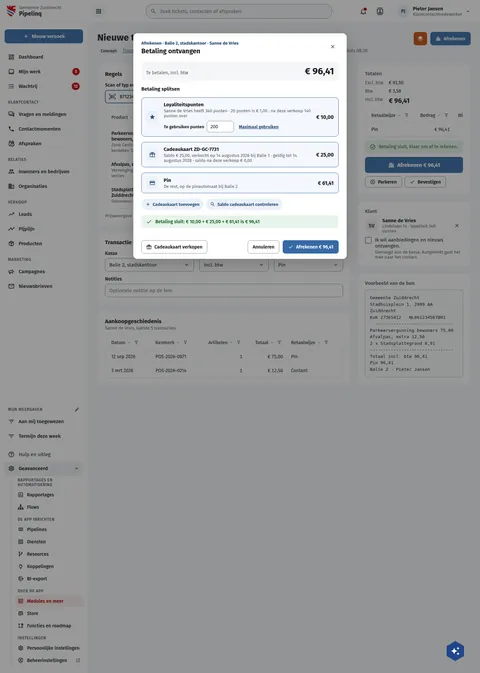
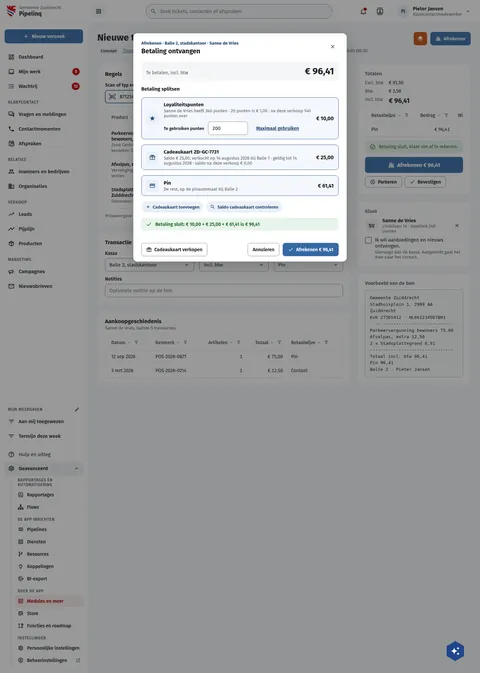
fix(screens): PqKassaAfrekenen draws the loyalty points as controls
Live offers loyalty points at checkout: a "Te gebruiken punten" field and
a "Maximaal gebruiken" button in the Loyaliteitspunten row. The board drew
the amount as a 32px text box beside a 13px link, so the measure found
both as extra on live. Users keep the feature, so the board now draws a
labelled 40px number field and a 34px button. Built with
build.py --only PqKassaAfrekenen; screens.json unchanged.

Assisted-by: ClaudeCode:claude-opus-5-5

Changed region(s): [[0.2812, 0.156, 0.7188, 0.4056]]

diff --git a/preview/screens/boards/PqKassaAfrekenen.html b/preview/screens/boards/PqKassaAfrekenen.html
@@ -245,7 +245,7 @@ a{color:var(--sc-primary, #3669a5)}a:hover{color:var(--sc-primary-deep, #234a78)
   <div style="position: absolute; inset: 0; background: rgba(27,28,29,0.45); display: flex; justify-content: center; align-items: flex-start; padding-top: 100px; z-index: 5">
     <div role="dialog" aria-modal="true" aria-labelledby="pq-dlg" style="width: 640px; max-width: calc(100% - 32px); background: #ffffff; border-radius: 12px; box-shadow: 0 12px 40px rgba(27,28,29,0.25); display: flex; flex-direction: column">
       <div style="display: flex; align-items: flex-start; gap: 12px; padding: 22px 24px 8px"><div style="flex: 1 1 auto; display: flex; flex-direction: column; gap: 4px"><span style="font-size: 13px; font-weight: 700; color: var(--sc-primary-deep, #234a78)">Afrekenen · Balie 2, stadskantoor · Sanne de Vries</span><h2 id="pq-dlg" style="margin: 0; font-size: 20px; font-weight: 700">Betaling ontvangen</h2></div><button type="button" aria-label="Sluiten" style="width: 36px; height: 36px; flex: none; border: 0; border-radius: 18px; background: transparent; color: var(--sc-work-text, #3d4047); display: flex; align-items: center; justify-content: center"><svg width="18" height="18" viewbox="0 0 24 24" fill="currentColor" aria-hidden="true"><path d="M19,6.41L17.59,5L12,10.59L6.41,5L5,6.41L10.59,12L5,17.59L6.41,19L12,13.41L17.59,19L19,17.59L13.41,12L19,6.41Z"></path></svg></button></div>
-      <div style="padding: 12px 24px 20px; display: flex; flex-direction: column; gap: 16px"><div style="display: flex; flex-wrap: wrap; justify-content: space-between; align-items: baseline; gap: 8px; padding: 12px 14px; border-radius: 10px; background: var(--sc-work-ground, #f5f6f8)"><span style="font-size: 14px; color: var(--sc-work-muted, #5e6168)">Te betalen, incl. btw</span><strong style="font-size: 28px">€ 96,41</strong></div><h3 style="margin: 0; font-size: 15px; font-weight: 700">Betaling splitsen</h3><div style="display: flex; flex-wrap: wrap; align-items: center; gap: 10px 16px; padding: 12px 14px; border: 1px solid var(--sc-work-line, #e4e6ea); border-radius: 10px; border-color: var(--sc-primary, #3669a5); background: #f3f7fc"><span style="width: 36px; height: 36px; flex: none; border-radius: 8px; background: var(--sc-primary-light, #eaf0f7); color: var(--sc-primary-deep, #234a78); display: flex; align-items: center; justify-content: center"><svg width="18" height="18" viewbox="0 0 24 24" fill="currentColor" aria-hidden="true"><path d="M12,17.27L18.18,21L16.54,13.97L22,9.24L14.81,8.62L12,2L9.19,8.62L2,9.24L7.45,13.97L5.82,21L12,17.27Z"></path></svg></span><span style="flex: 1 1 220px; display: flex; flex-direction: column; gap: 2px"><strong style="font-size: 15px">Loyaliteitspunten</strong><span style="font-size: 13px; color: var(--sc-work-muted, #5e6168)">Sanne de Vries heeft 340 punten · 20 punten is € 1,00 · na deze verkoop 140 punten over</span><span style="display: flex; align-items: center; gap: 8px; margin-top: 6px"><span style="font-size: 13px; font-weight: 600">Te gebruiken punten</span><span style="display: inline-flex; align-items: center; height: 32px; padding: 0 10px; border: 1px solid var(--sc-work-field, #828a95); border-radius: 8px; background: #ffffff; font-size: 14px; min-width: 60px">200</span><button type="button" style="border: 0; background: transparent; color: var(--sc-primary-deep, #234a78); font: 600 13px var(--sc-font, 'Fira Sans'), sans-serif; text-decoration: underline">Maximaal gebruiken</button></span></span><strong style="font-size: 16px; white-space: nowrap">€ 10,00</strong></div><div style="display: flex; flex-wrap: wrap; align-items: center; gap: 10px 16px; padding: 12px 14px; border: 1px solid var(--sc-work-line, #e4e6ea); border-radius: 10px; border-color: var(--sc-primary, #3669a5); background: #f3f7fc"><span style="width: 36px; height: 36px; flex: none; border-radius: 8px; background: var(--sc-primary-light, #eaf0f7); color: var(--sc-primary-deep, #234a78); display: flex; align-items: center; justify-content: center"><svg width="18" height="18" viewbox="0 0 24 24" fill="currentColor" aria-hidden="true"><path d="M22,12V20A2,2 0 0,1 20,22H4A2,2 0 0,1 2,20V12A1,1 0 0,1 1,11V8A2,2 0 0,1 3,6H6.17C6.06,5.69 6,5.35 6,5A3,3 0 0,1 9,2C10,2 10.88,2.5 11.43,3.24V3.23L12,4L12.57,3.23V3.24C13.12,2.5 14,2 15,2A3,3 0 0,1 18,5C18,5.35 17.94,5.69 17.83,6H21A2,2 0 0,1 23,8V11A1,1 0 0,1 22,12M4,20H11V12H4V20M20,20V12H13V20H20M9,4A1,1 0 0,0 8,5A1,1 0 0,0 9,6A1,1 0 0,0 10,5A1,1 0 0,0 9,4M15,4A1,1 0 0,0 14,5A1,1 0 0,0 15,6A1,1 0 0,0 16,5A1,1 0 0,0 15,4M3,8V10H11V8H3M13,8V10H21V8H13Z"></path></svg></span><span style="flex: 1 1 220px; display: flex; flex-direction: column; gap: 2px"><strong style="font-size: 15px">Cadeaukaart ZD-GC-7731</strong><span style="font-size: 13px; color: var(--sc-work-muted, #5e6168)">Saldo € 25,00, verkocht op 14 augustus 2026 bij Balie 1 · geldig tot 14 augustus 2028 · saldo na deze verkoop € 0,00</span></span><strong style="font-size: 16px; white-space: nowrap">€ 25,00</strong></div><div style="display: flex; flex-wrap: wrap; align-items: center; gap: 10px 16px; padding: 12px 14px; border: 1px solid var(--sc-work-line, #e4e6ea); border-radius: 10px; border-color: var(--sc-primary, #3669a5); background: #f3f7fc"><span style="width: 36px; height: 36px; flex: none; border-radius: 8px; background: var(--sc-primary-light, #eaf0f7); color: var(--sc-primary-deep, #234a78); display: flex; align-items: center; justify-content: center"><svg width="18" height="18" viewbox="0 0 24 24" fill="currentColor" aria-hidden="true"><path d="M20,8H4V6H20M20,18H4V12H20M20,4H4C2.89,4 2,4.89 2,6V18A2,2 0 0,0 4,20H20A2,2 0 0,0 22,18V6C22,4.89 21.1,4 20,4Z"></path></svg></span><span style="flex: 1 1 220px; display: flex; flex-direction: column; gap: 2px"><strong style="font-size: 15px">Pin</strong><span style="font-size: 13px; color: var(--sc-work-muted, #5e6168)">De rest, op de pinautomaat bij Balie 2</span></span><strong style="font-size: 16px; white-space: nowrap">€ 61,41</strong></div><div style="display: flex; flex-wrap: wrap; gap: 8px"><button type="button" style="display: inline-flex; align-items: center; gap: 6px; height: 34px; padding: 0 12px; border: 0; border-radius: 17px; background: var(--sc-primary-light, #eaf0f7); color: var(--sc-primary-deep, #234a78); font: 600 13px var(--sc-font, 'Fira Sans'), sans-serif; white-space: nowrap"><svg width="16" height="16" viewbox="0 0 24 24" fill="currentColor" aria-hidden="true"><path d="M19,13H13V19H11V13H5V11H11V5H13V11H19V13Z"></path></svg>Cadeaukaart toevoegen</button><button type="button" style="display: inline-flex; align-items: center; gap: 6px; height: 34px; padding: 0 12px; border: 0; border-radius: 17px; background: var(--sc-primary-light, #eaf0f7); color: var(--sc-primary-deep, #234a78); font: 600 13px var(--sc-font, 'Fira Sans'), sans-serif; white-space: nowrap"><svg width="16" height="16" viewbox="0 0 24 24" fill="currentColor" aria-hidden="true"><path d="M9.5,3A6.5,6.5 0 0,1 16,9.5C16,11.11 15.41,12.59 14.44,13.73L14.71,14H15.5L20.5,19L19,20.5L14,15.5V14.71L13.73,14.44C12.59,15.41 11.11,16 9.5,16A6.5,6.5 0 0,1 3,9.5A6.5,6.5 0 0,1 9.5,3M9.5,5C7,5 5,7 5,9.5C5,12 7,14 9.5,14C12,14 14,12 14,9.5C14,7 12,5 9.5,5Z"></path></svg>Saldo cadeaukaart controleren</button></div><div role="status" style="display: flex; align-items: center; gap: 10px; padding: 10px 14px; border-radius: 8px; background: #e7f3ea; color: #1e6b2a; font-size: 14px; font-weight: 600"><svg width="18" height="18" viewbox="0 0 24 24" fill="currentColor" aria-hidden="true"><path d="M21,7L9,19L3.5,13.5L4.91,12.09L9,16.17L19.59,5.59L21,7Z"></path></svg>Betaling sluit: € 10,00 + € 25,00 + € 61,41 is € 96,41</div></div>
+      <div style="padding: 12px 24px 20px; display: flex; flex-direction: column; gap: 16px"><div style="display: flex; flex-wrap: wrap; justify-content: space-between; align-items: baseline; gap: 8px; padding: 12px 14px; border-radius: 10px; background: var(--sc-work-ground, #f5f6f8)"><span style="font-size: 14px; color: var(--sc-work-muted, #5e6168)">Te betalen, incl. btw</span><strong style="font-size: 28px">€ 96,41</strong></div><h3 style="margin: 0; font-size: 15px; font-weight: 700">Betaling splitsen</h3><div style="display: flex; flex-wrap: wrap; align-items: center; gap: 10px 16px; padding: 12px 14px; border: 1px solid var(--sc-work-line, #e4e6ea); border-radius: 10px; border-color: var(--sc-primary, #3669a5); background: #f3f7fc"><span style="width: 36px; height: 36px; flex: none; border-radius: 8px; background: var(--sc-primary-light, #eaf0f7); color: var(--sc-primary-deep, #234a78); display: flex; align-items: center; justify-content: center"><svg width="18" height="18" viewbox="0 0 24 24" fill="currentColor" aria-hidden="true"><path d="M12,17.27L18.18,21L16.54,13.97L22,9.24L14.81,8.62L12,2L9.19,8.62L2,9.24L7.45,13.97L5.82,21L12,17.27Z"></path></svg></span><span style="flex: 1 1 220px; display: flex; flex-direction: column; gap: 2px"><strong style="font-size: 15px">Loyaliteitspunten</strong><span style="font-size: 13px; color: var(--sc-work-muted, #5e6168)">Sanne de Vries heeft 340 punten · 20 punten is € 1,00 · na deze verkoop 140 punten over</span><span style="display: flex; flex-wrap: wrap; align-items: center; gap: 8px 12px; margin-top: 8px"><label for="pq-pay-points" style="font-size: 13px; font-weight: 600">Te gebruiken punten</label><input id="pq-pay-points" type="number" inputmode="numeric" min="0" max="340" step="20" value="200" style="width: 120px; height: 40px; box-sizing: border-box; padding: 0 12px; border: 1px solid var(--sc-work-field, #828a95); border-radius: 8px; background: #ffffff; font: 400 15px var(--sc-font, 'Fira Sans'), sans-serif; color: var(--sc-work-ink, #1b1c1d)"><button type="button" style="height: 34px; padding: 0 12px; border: 0; border-radius: 8px; background: transparent; color: var(--sc-primary-deep, #234a78); font: 600 14px var(--sc-font, 'Fira Sans'), sans-serif; text-decoration: underline">Maximaal gebruiken</button></span></span><strong style="font-size: 16px; white-space: nowrap">€ 10,00</strong></div><div style="display: flex; flex-wrap: wrap; align-items: center; gap: 10px 16px; padding: 12px 14px; border: 1px solid var(--sc-work-line, #e4e6ea); border-radius: 10px; border-color: var(--sc-primary, #3669a5); background: #f3f7fc"><span style="width: 36px; height: 36px; flex: none; border-radius: 8px; background: var(--sc-primary-light, #eaf0f7); color: var(--sc-primary-deep, #234a78); display: flex; align-items: center; justify-content: center"><svg width="18" height="18" viewbox="0 0 24 24" fill="currentColor" aria-hidden="true"><path d="M22,12V20A2,2 0 0,1 20,22H4A2,2 0 0,1 2,20V12A1,1 0 0,1 1,11V8A2,2 0 0,1 3,6H6.17C6.06,5.69 6,5.35 6,5A3,3 0 0,1 9,2C10,2 10.88,2.5 11.43,3.24V3.23L12,4L12.57,3.23V3.24C13.12,2.5 14,2 15,2A3,3 0 0,1 18,5C18,5.35 17.94,5.69 17.83,6H21A2,2 0 0,1 23,8V11A1,1 0 0,1 22,12M4,20H11V12H4V20M20,20V12H13V20H20M9,4A1,1 0 0,0 8,5A1,1 0 0,0 9,6A1,1 0 0,0 10,5A1,1 0 0,0 9,4M15,4A1,1 0 0,0 14,5A1,1 0 0,0 15,6A1,1 0 0,0 16,5A1,1 0 0,0 15,4M3,8V10H11V8H3M13,8V10H21V8H13Z"></path></svg></span><span style="flex: 1 1 220px; display: flex; flex-direction: column; gap: 2px"><strong style="font-size: 15px">Cadeaukaart ZD-GC-7731</strong><span style="font-size: 13px; color: var(--sc-work-muted, #5e6168)">Saldo € 25,00, verkocht op 14 augustus 2026 bij Balie 1 · geldig tot 14 augustus 2028 · saldo na deze verkoop € 0,00</span></span><strong style="font-size: 16px; white-space: nowrap">€ 25,00</strong></div><div style="display: flex; flex-wrap: wrap; align-items: center; gap: 10px 16px; padding: 12px 14px; border: 1px solid var(--sc-work-line, #e4e6ea); border-radius: 10px; border-color: var(--sc-primary, #3669a5); background: #f3f7fc"><span style="width: 36px; height: 36px; flex: none; border-radius: 8px; background: var(--sc-primary-light, #eaf0f7); color: var(--sc-primary-deep, #234a78); display: flex; align-items: center; justify-content: center"><svg width="18" height="18" viewbox="0 0 24 24" fill="currentColor" aria-hidden="true"><path d="M20,8H4V6H20M20,18H4V12H20M20,4H4C2.89,4 2,4.89 2,6V18A2,2 0 0,0 4,20H20A2,2 0 0,0 22,18V6C22,4.89 21.1,4 20,4Z"></path></svg></span><span style="flex: 1 1 220px; display: flex; flex-direction: column; gap: 2px"><strong style="font-size: 15px">Pin</strong><span style="font-size: 13px; color: var(--sc-work-muted, #5e6168)">De rest, op de pinautomaat bij Balie 2</span></span><strong style="font-size: 16px; white-space: nowrap">€ 61,41</strong></div><div style="display: flex; flex-wrap: wrap; gap: 8px"><button type="button" style="display: inline-flex; align-items: center; gap: 6px; height: 34px; padding: 0 12px; border: 0; border-radius: 17px; background: var(--sc-primary-light, #eaf0f7); color: var(--sc-primary-deep, #234a78); font: 600 13px var(--sc-font, 'Fira Sans'), sans-serif; white-space: nowrap"><svg width="16" height="16" viewbox="0 0 24 24" fill="currentColor" aria-hidden="true"><path d="M19,13H13V19H11V13H5V11H11V5H13V11H19V13Z"></path></svg>Cadeaukaart toevoegen</button><button type="button" style="display: inline-flex; align-items: center; gap: 6px; height: 34px; padding: 0 12px; border: 0; border-radius: 17px; background: var(--sc-primary-light, #eaf0f7); color: var(--sc-primary-deep, #234a78); font: 600 13px var(--sc-font, 'Fira Sans'), sans-serif; white-space: nowrap"><svg width="16" height="16" viewbox="0 0 24 24" fill="currentColor" aria-hidden="true"><path d="M9.5,3A6.5,6.5 0 0,1 16,9.5C16,11.11 15.41,12.59 14.44,13.73L14.71,14H15.5L20.5,19L19,20.5L14,15.5V14.71L13.73,14.44C12.59,15.41 11.11,16 9.5,16A6.5,6.5 0 0,1 3,9.5A6.5,6.5 0 0,1 9.5,3M9.5,5C7,5 5,7 5,9.5C5,12 7,14 9.5,14C12,14 14,12 14,9.5C14,7 12,5 9.5,5Z"></path></svg>Saldo cadeaukaart controleren</button></div><div role="status" style="display: flex; align-items: center; gap: 10px; padding: 10px 14px; border-radius: 8px; background: #e7f3ea; color: #1e6b2a; font-size: 14px; font-weight: 600"><svg width="18" height="18" viewbox="0 0 24 24" fill="currentColor" aria-hidden="true"><path d="M21,7L9,19L3.5,13.5L4.91,12.09L9,16.17L19.59,5.59L21,7Z"></path></svg>Betaling sluit: € 10,00 + € 25,00 + € 61,41 is € 96,41</div></div>
       <div style="display: flex; flex-wrap: wrap; justify-content: flex-end; align-items: center; gap: 10px; padding: 16px 24px; border-top: 1px solid var(--sc-work-soft, #eef0f3)"><button type="button" style="display: inline-flex; align-items: center; gap: 8px; height: 40px; padding: 0 14px; border: 1px solid var(--sc-work-field, #828a95); border-radius: 8px; background: #ffffff; font: 600 14px var(--sc-font, 'Fira Sans'), sans-serif; color: var(--sc-work-ink, #1b1c1d); white-space: nowrap; margin-right: auto"><svg width="16" height="16" viewbox="0 0 24 24" fill="currentColor" aria-hidden="true"><path d="M22,12V20A2,2 0 0,1 20,22H4A2,2 0 0,1 2,20V12A1,1 0 0,1 1,11V8A2,2 0 0,1 3,6H6.17C6.06,5.69 6,5.35 6,5A3,3 0 0,1 9,2C10,2 10.88,2.5 11.43,3.24V3.23L12,4L12.57,3.23V3.24C13.12,2.5 14,2 15,2A3,3 0 0,1 18,5C18,5.35 17.94,5.69 17.83,6H21A2,2 0 0,1 23,8V11A1,1 0 0,1 22,12M4,20H11V12H4V20M20,20V12H13V20H20M9,4A1,1 0 0,0 8,5A1,1 0 0,0 9,6A1,1 0 0,0 10,5A1,1 0 0,0 9,4M15,4A1,1 0 0,0 14,5A1,1 0 0,0 15,6A1,1 0 0,0 16,5A1,1 0 0,0 15,4M3,8V10H11V8H3M13,8V10H21V8H13Z"></path></svg>Cadeaukaart verkopen</button><button type="button" style="display: inline-flex; align-items: center; gap: 8px; height: 40px; padding: 0 14px; border: 1px solid var(--sc-work-field, #828a95); border-radius: 8px; background: #ffffff; font: 600 14px var(--sc-font, 'Fira Sans'), sans-serif; color: var(--sc-work-ink, #1b1c1d); white-space: nowrap">Annuleren</button><button type="button" style="display: inline-flex; align-items: center; gap: 8px; height: 40px; padding: 0 16px; border: 0; border-radius: 8px; background: var(--sc-primary, #3669a5); color: #ffffff; font: 600 14px var(--sc-font, 'Fira Sans'), sans-serif; white-space: nowrap"><svg width="16" height="16" viewbox="0 0 24 24" fill="currentColor" aria-hidden="true"><path d="M21,7L9,19L3.5,13.5L4.91,12.09L9,16.17L19.59,5.59L21,7Z"></path></svg>Afrekenen € 96,41</button></div>
     </div>
   </div>

diff --git a/screens-src/zuiddrecht/PqKassaAfrekenen.dc.html b/screens-src/zuiddrecht/PqKassaAfrekenen.dc.html
@@ -37,7 +37,7 @@ a{color:#3669a5}a:hover{color:#234a78}
   <div style="position: absolute; inset: 0; background: rgba(27,28,29,0.45); display: flex; justify-content: center; align-items: flex-start; padding-top: 100px; z-index: 5">
     <div role="dialog" aria-modal="true" aria-labelledby="pq-dlg" style="width: 640px; max-width: calc(100% - 32px); background: #ffffff; border-radius: 12px; box-shadow: 0 12px 40px rgba(27,28,29,0.25); display: flex; flex-direction: column">
       <div style="display: flex; align-items: flex-start; gap: 12px; padding: 22px 24px 8px"><div style="flex: 1 1 auto; display: flex; flex-direction: column; gap: 4px"><span style="font-size: 13px; font-weight: 700; color: #234a78">Afrekenen · Balie 2, stadskantoor · Sanne de Vries</span><h2 id="pq-dlg" style="margin: 0; font-size: 20px; font-weight: 700">Betaling ontvangen</h2></div><button type="button" aria-label="Sluiten" style="width: 36px; height: 36px; flex: none; border: 0; border-radius: 18px; background: transparent; color: #3d4047; display: flex; align-items: center; justify-content: center"><svg width="18" height="18" viewBox="0 0 24 24" fill="currentColor" aria-hidden="true"><path d="M19,6.41L17.59,5L12,10.59L6.41,5L5,6.41L10.59,12L5,17.59L6.41,19L12,13.41L17.59,19L19,17.59L13.41,12L19,6.41Z"></path></svg></button></div>
-      <div style="padding: 12px 24px 20px; display: flex; flex-direction: column; gap: 16px"><div style="display: flex; flex-wrap: wrap; justify-content: space-between; align-items: baseline; gap: 8px; padding: 12px 14px; border-radius: 10px; background: #f5f6f8"><span style="font-size: 14px; color: #5e6168">Te betalen, incl. btw</span><strong style="font-size: 28px">€ 96,41</strong></div><h3 style="margin: 0; font-size: 15px; font-weight: 700">Betaling splitsen</h3><div style="display: flex; flex-wrap: wrap; align-items: center; gap: 10px 16px; padding: 12px 14px; border: 1px solid #e4e6ea; border-radius: 10px; border-color: #3669a5; background: #f3f7fc"><span style="width: 36px; height: 36px; flex: none; border-radius: 8px; background: #eaf0f7; color: #234a78; display: flex; align-items: center; justify-content: center"><svg width="18" height="18" viewBox="0 0 24 24" fill="currentColor" aria-hidden="true"><path d="M12,17.27L18.18,21L16.54,13.97L22,9.24L14.81,8.62L12,2L9.19,8.62L2,9.24L7.45,13.97L5.82,21L12,17.27Z"></path></svg></span><span style="flex: 1 1 220px; display: flex; flex-direction: column; gap: 2px"><strong style="font-size: 15px">Loyaliteitspunten</strong><span style="font-size: 13px; color: #5e6168">Sanne de Vries heeft 340 punten · 20 punten is € 1,00 · na deze verkoop 140 punten over</span><span style="display: flex; align-items: center; gap: 8px; margin-top: 6px"><span style="font-size: 13px; font-weight: 600">Te gebruiken punten</span><span style="display: inline-flex; align-items: center; height: 32px; padding: 0 10px; border: 1px solid #828a95; border-radius: 8px; background: #ffffff; font-size: 14px; min-width: 60px">200</span><button type="button" style="border: 0; background: transparent; color: #234a78; font: 600 13px 'Fira Sans', sans-serif; text-decoration: underline">Maximaal gebruiken</button></span></span><strong style="font-size: 16px; white-space: nowrap">€ 10,00</strong></div><div style="display: flex; flex-wrap: wrap; align-items: center; gap: 10px 16px; padding: 12px 14px; border: 1px solid #e4e6ea; border-radius: 10px; border-color: #3669a5; background: #f3f7fc"><span style="width: 36px; height: 36px; flex: none; border-radius: 8px; background: #eaf0f7; color: #234a78; display: flex; align-items: center; justify-content: center"><svg width="18" height="18" viewBox="0 0 24 24" fill="currentColor" aria-hidden="true"><path d="M22,12V20A2,2 0 0,1 20,22H4A2,2 0 0,1 2,20V12A1,1 0 0,1 1,11V8A2,2 0 0,1 3,6H6.17C6.06,5.69 6,5.35 6,5A3,3 0 0,1 9,2C10,2 10.88,2.5 11.43,3.24V3.23L12,4L12.57,3.23V3.24C13.12,2.5 14,2 15,2A3,3 0 0,1 18,5C18,5.35 17.94,5.69 17.83,6H21A2,2 0 0,1 23,8V11A1,1 0 0,1 22,12M4,20H11V12H4V20M20,20V12H13V20H20M9,4A1,1 0 0,0 8,5A1,1 0 0,0 9,6A1,1 0 0,0 10,5A1,1 0 0,0 9,4M15,4A1,1 0 0,0 14,5A1,1 0 0,0 15,6A1,1 0 0,0 16,5A1,1 0 0,0 15,4M3,8V10H11V8H3M13,8V10H21V8H13Z"></path></svg></span><span style="flex: 1 1 220px; display: flex; flex-direction: column; gap: 2px"><strong style="font-size: 15px">Cadeaukaart ZD-GC-7731</strong><span style="font-size: 13px; color: #5e6168">Saldo € 25,00, verkocht op 14 augustus 2026 bij Balie 1 · geldig tot 14 augustus 2028 · saldo na deze verkoop € 0,00</span></span><strong style="font-size: 16px; white-space: nowrap">€ 25,00</strong></div><div style="display: flex; flex-wrap: wrap; align-items: center; gap: 10px 16px; padding: 12px 14px; border: 1px solid #e4e6ea; border-radius: 10px; border-color: #3669a5; background: #f3f7fc"><span style="width: 36px; height: 36px; flex: none; border-radius: 8px; background: #eaf0f7; color: #234a78; display: flex; align-items: center; justify-content: center"><svg width="18" height="18" viewBox="0 0 24 24" fill="currentColor" aria-hidden="true"><path d="M20,8H4V6H20M20,18H4V12H20M20,4H4C2.89,4 2,4.89 2,6V18A2,2 0 0,0 4,20H20A2,2 0 0,0 22,18V6C22,4.89 21.1,4 20,4Z"></path></svg></span><span style="flex: 1 1 220px; display: flex; flex-direction: column; gap: 2px"><strong style="font-size: 15px">Pin</strong><span style="font-size: 13px; color: #5e6168">De rest, op de pinautomaat bij Balie 2</span></span><strong style="font-size: 16px; white-space: nowrap">€ 61,41</strong></div><div style="display: flex; flex-wrap: wrap; gap: 8px"><button type="button" style="display: inline-flex; align-items: center; gap: 6px; height: 34px; padding: 0 12px; border: 0; border-radius: 17px; background: #eaf0f7; color: #234a78; font: 600 13px 'Fira Sans', sans-serif; white-space: nowrap"><svg width="16" height="16" viewBox="0 0 24 24" fill="currentColor" aria-hidden="true"><path d="M19,13H13V19H11V13H5V11H11V5H13V11H19V13Z"></path></svg>Cadeaukaart toevoegen</button><button type="button" style="display: inline-flex; align-items: center; gap: 6px; height: 34px; padding: 0 12px; border: 0; border-radius: 17px; background: #eaf0f7; color: #234a78; font: 600 13px 'Fira Sans', sans-serif; white-space: nowrap"><svg width="16" height="16" viewBox="0 0 24 24" fill="currentColor" aria-hidden="true"><path d="M9.5,3A6.5,6.5 0 0,1 16,9.5C16,11.11 15.41,12.59 14.44,13.73L14.71,14H15.5L20.5,19L19,20.5L14,15.5V14.71L13.73,14.44C12.59,15.41 11.11,16 9.5,16A6.5,6.5 0 0,1 3,9.5A6.5,6.5 0 0,1 9.5,3M9.5,5C7,5 5,7 5,9.5C5,12 7,14 9.5,14C12,14 14,12 14,9.5C14,7 12,5 9.5,5Z"></path></svg>Saldo cadeaukaart controleren</button></div><div role="status" style="display: flex; align-items: center; gap: 10px; padding: 10px 14px; border-radius: 8px; background: #e7f3ea; color: #1e6b2a; font-size: 14px; font-weight: 600"><svg width="18" height="18" viewBox="0 0 24 24" fill="currentColor" aria-hidden="true"><path d="M21,7L9,19L3.5,13.5L4.91,12.09L9,16.17L19.59,5.59L21,7Z"></path></svg>Betaling sluit: € 10,00 + € 25,00 + € 61,41 is € 96,41</div></div>
+      <div style="padding: 12px 24px 20px; display: flex; flex-direction: column; gap: 16px"><div style="display: flex; flex-wrap: wrap; justify-content: space-between; align-items: baseline; gap: 8px; padding: 12px 14px; border-radius: 10px; background: #f5f6f8"><span style="font-size: 14px; color: #5e6168">Te betalen, incl. btw</span><strong style="font-size: 28px">€ 96,41</strong></div><h3 style="margin: 0; font-size: 15px; font-weight: 700">Betaling splitsen</h3><div style="display: flex; flex-wrap: wrap; align-items: center; gap: 10px 16px; padding: 12px 14px; border: 1px solid #e4e6ea; border-radius: 10px; border-color: #3669a5; background: #f3f7fc"><span style="width: 36px; height: 36px; flex: none; border-radius: 8px; background: #eaf0f7; color: #234a78; display: flex; align-items: center; justify-content: center"><svg width="18" height="18" viewBox="0 0 24 24" fill="currentColor" aria-hidden="true"><path d="M12,17.27L18.18,21L16.54,13.97L22,9.24L14.81,8.62L12,2L9.19,8.62L2,9.24L7.45,13.97L5.82,21L12,17.27Z"></path></svg></span><span style="flex: 1 1 220px; display: flex; flex-direction: column; gap: 2px"><strong style="font-size: 15px">Loyaliteitspunten</strong><span style="font-size: 13px; color: #5e6168">Sanne de Vries heeft 340 punten · 20 punten is € 1,00 · na deze verkoop 140 punten over</span><span style="display: flex; flex-wrap: wrap; align-items: center; gap: 8px 12px; margin-top: 8px"><label for="pq-pay-points" style="font-size: 13px; font-weight: 600">Te gebruiken punten</label><input id="pq-pay-points" type="number" inputmode="numeric" min="0" max="340" step="20" value="200" style="width: 120px; height: 40px; box-sizing: border-box; padding: 0 12px; border: 1px solid #828a95; border-radius: 8px; background: #ffffff; font: 400 15px 'Fira Sans', sans-serif; color: #1b1c1d"><button type="button" style="height: 34px; padding: 0 12px; border: 0; border-radius: 8px; background: transparent; color: #234a78; font: 600 14px 'Fira Sans', sans-serif; text-decoration: underline">Maximaal gebruiken</button></span></span><strong style="font-size: 16px; white-space: nowrap">€ 10,00</strong></div><div style="display: flex; flex-wrap: wrap; align-items: center; gap: 10px 16px; padding: 12px 14px; border: 1px solid #e4e6ea; border-radius: 10px; border-color: #3669a5; background: #f3f7fc"><span style="width: 36px; height: 36px; flex: none; border-radius: 8px; background: #eaf0f7; color: #234a78; display: flex; align-items: center; justify-content: center"><svg width="18" height="18" viewBox="0 0 24 24" fill="currentColor" aria-hidden="true"><path d="M22,12V20A2,2 0 0,1 20,22H4A2,2 0 0,1 2,20V12A1,1 0 0,1 1,11V8A2,2 0 0,1 3,6H6.17C6.06,5.69 6,5.35 6,5A3,3 0 0,1 9,2C10,2 10.88,2.5 11.43,3.24V3.23L12,4L12.57,3.23V3.24C13.12,2.5 14,2 15,2A3,3 0 0,1 18,5C18,5.35 17.94,5.69 17.83,6H21A2,2 0 0,1 23,8V11A1,1 0 0,1 22,12M4,20H11V12H4V20M20,20V12H13V20H20M9,4A1,1 0 0,0 8,5A1,1 0 0,0 9,6A1,1 0 0,0 10,5A1,1 0 0,0 9,4M15,4A1,1 0 0,0 14,5A1,1 0 0,0 15,6A1,1 0 0,0 16,5A1,1 0 0,0 15,4M3,8V10H11V8H3M13,8V10H21V8H13Z"></path></svg></span><span style="flex: 1 1 220px; display: flex; flex-direction: column; gap: 2px"><strong style="font-size: 15px">Cadeaukaart ZD-GC-7731</strong><span style="font-size: 13px; color: #5e6168">Saldo € 25,00, verkocht op 14 augustus 2026 bij Balie 1 · geldig tot 14 augustus 2028 · saldo na deze verkoop € 0,00</span></span><strong style="font-size: 16px; white-space: nowrap">€ 25,00</strong></div><div style="display: flex; flex-wrap: wrap; align-items: center; gap: 10px 16px; padding: 12px 14px; border: 1px solid #e4e6ea; border-radius: 10px; border-color: #3669a5; background: #f3f7fc"><span style="width: 36px; height: 36px; flex: none; border-radius: 8px; background: #eaf0f7; color: #234a78; display: flex; align-items: center; justify-content: center"><svg width="18" height="18" viewBox="0 0 24 24" fill="currentColor" aria-hidden="true"><path d="M20,8H4V6H20M20,18H4V12H20M20,4H4C2.89,4 2,4.89 2,6V18A2,2 0 0,0 4,20H20A2,2 0 0,0 22,18V6C22,4.89 21.1,4 20,4Z"></path></svg></span><span style="flex: 1 1 220px; display: flex; flex-direction: column; gap: 2px"><strong style="font-size: 15px">Pin</strong><span style="font-size: 13px; color: #5e6168">De rest, op de pinautomaat bij Balie 2</span></span><strong style="font-size: 16px; white-space: nowrap">€ 61,41</strong></div><div style="display: flex; flex-wrap: wrap; gap: 8px"><button type="button" style="display: inline-flex; align-items: center; gap: 6px; height: 34px; padding: 0 12px; border: 0; border-radius: 17px; background: #eaf0f7; color: #234a78; font: 600 13px 'Fira Sans', sans-serif; white-space: nowrap"><svg width="16" height="16" viewBox="0 0 24 24" fill="currentColor" aria-hidden="true"><path d="M19,13H13V19H11V13H5V11H11V5H13V11H19V13Z"></path></svg>Cadeaukaart toevoegen</button><button type="button" style="display: inline-flex; align-items: center; gap: 6px; height: 34px; padding: 0 12px; border: 0; border-radius: 17px; background: #eaf0f7; color: #234a78; font: 600 13px 'Fira Sans', sans-serif; white-space: nowrap"><svg width="16" height="16" viewBox="0 0 24 24" fill="currentColor" aria-hidden="true"><path d="M9.5,3A6.5,6.5 0 0,1 16,9.5C16,11.11 15.41,12.59 14.44,13.73L14.71,14H15.5L20.5,19L19,20.5L14,15.5V14.71L13.73,14.44C12.59,15.41 11.11,16 9.5,16A6.5,6.5 0 0,1 3,9.5A6.5,6.5 0 0,1 9.5,3M9.5,5C7,5 5,7 5,9.5C5,12 7,14 9.5,14C12,14 14,12 14,9.5C14,7 12,5 9.5,5Z"></path></svg>Saldo cadeaukaart controleren</button></div><div role="status" style="display: flex; align-items: center; gap: 10px; padding: 10px 14px; border-radius: 8px; background: #e7f3ea; color: #1e6b2a; font-size: 14px; font-weight: 600"><svg width="18" height="18" viewBox="0 0 24 24" fill="currentColor" aria-hidden="true"><path d="M21,7L9,19L3.5,13.5L4.91,12.09L9,16.17L19.59,5.59L21,7Z"></path></svg>Betaling sluit: € 10,00 + € 25,00 + € 61,41 is € 96,41</div></div>
       <div style="display: flex; flex-wrap: wrap; justify-content: flex-end; align-items: center; gap: 10px; padding: 16px 24px; border-top: 1px solid #eef0f3"><button type="button" style="display: inline-flex; align-items: center; gap: 8px; height: 40px; padding: 0 14px; border: 1px solid #828a95; border-radius: 8px; background: #ffffff; font: 600 14px 'Fira Sans', sans-serif; color: #1b1c1d; white-space: nowrap; margin-right: auto"><svg width="16" height="16" viewBox="0 0 24 24" fill="currentColor" aria-hidden="true"><path d="M22,12V20A2,2 0 0,1 20,22H4A2,2 0 0,1 2,20V12A1,1 0 0,1 1,11V8A2,2 0 0,1 3,6H6.17C6.06,5.69 6,5.35 6,5A3,3 0 0,1 9,2C10,2 10.88,2.5 11.43,3.24V3.23L12,4L12.57,3.23V3.24C13.12,2.5 14,2 15,2A3,3 0 0,1 18,5C18,5.35 17.94,5.69 17.83,6H21A2,2 0 0,1 23,8V11A1,1 0 0,1 22,12M4,20H11V12H4V20M20,20V12H13V20H20M9,4A1,1 0 0,0 8,5A1,1 0 0,0 9,6A1,1 0 0,0 10,5A1,1 0 0,0 9,4M15,4A1,1 0 0,0 14,5A1,1 0 0,0 15,6A1,1 0 0,0 16,5A1,1 0 0,0 15,4M3,8V10H11V8H3M13,8V10H21V8H13Z"></path></svg>Cadeaukaart verkopen</button><button type="button" style="display: inline-flex; align-items: center; gap: 8px; height: 40px; padding: 0 14px; border: 1px solid #828a95; border-radius: 8px; background: #ffffff; font: 600 14px 'Fira Sans', sans-serif; color: #1b1c1d; white-space: nowrap">Annuleren</button><button type="button" style="display: inline-flex; align-items: center; gap: 8px; height: 40px; padding: 0 16px; border: 0; border-radius: 8px; background: #3669a5; color: #ffffff; font: 600 14px 'Fira Sans', sans-serif; white-space: nowrap"><svg width="16" height="16" viewBox="0 0 24 24" fill="currentColor" aria-hidden="true"><path d="M21,7L9,19L3.5,13.5L4.91,12.09L9,16.17L19.59,5.59L21,7Z"></path></svg>Afrekenen € 96,41</button></div>
     </div>
   </div>
